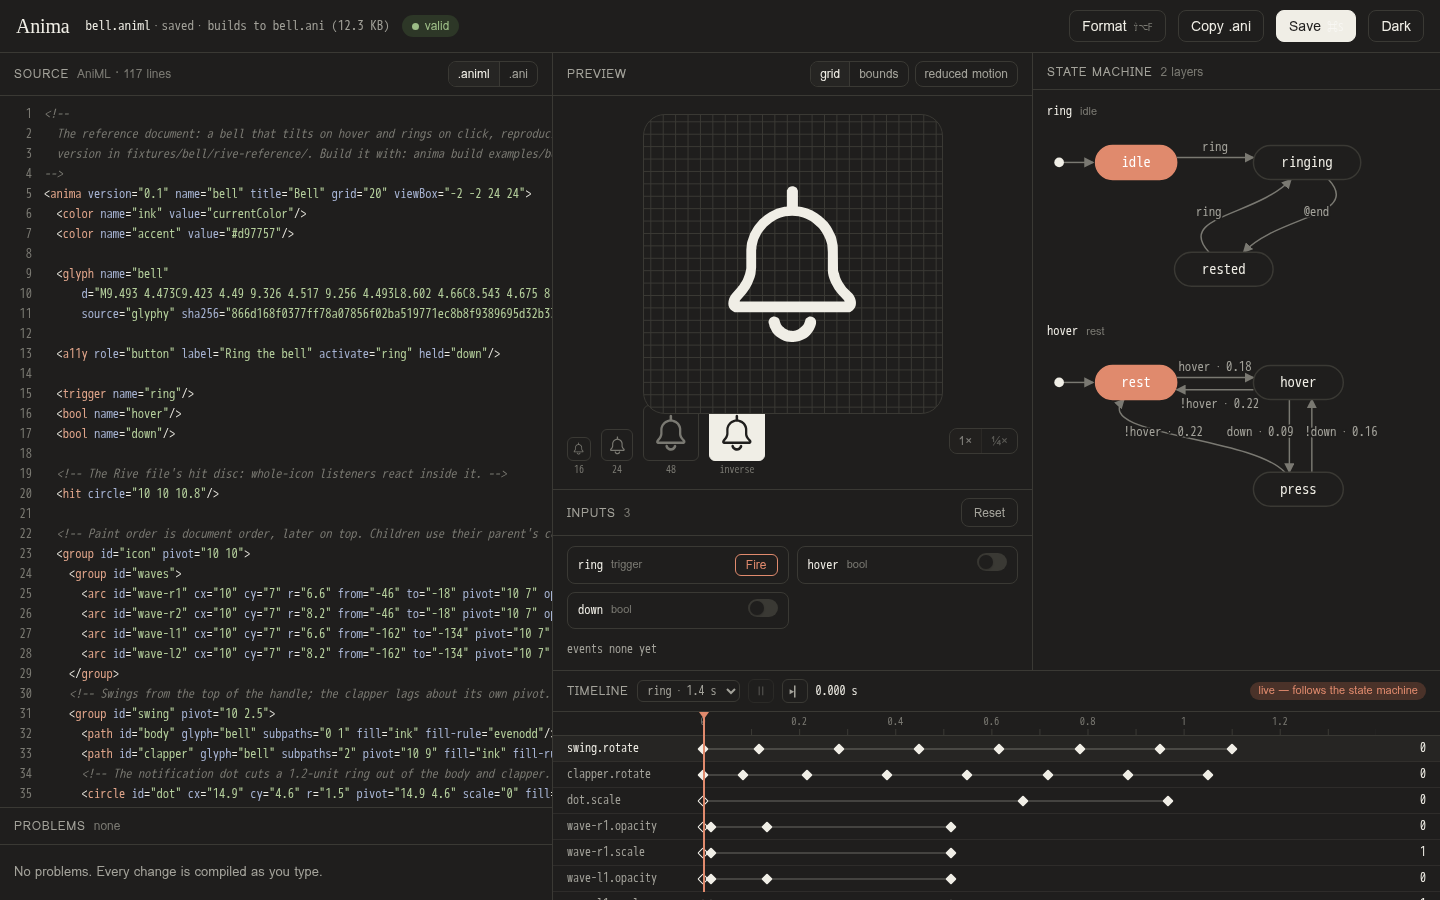
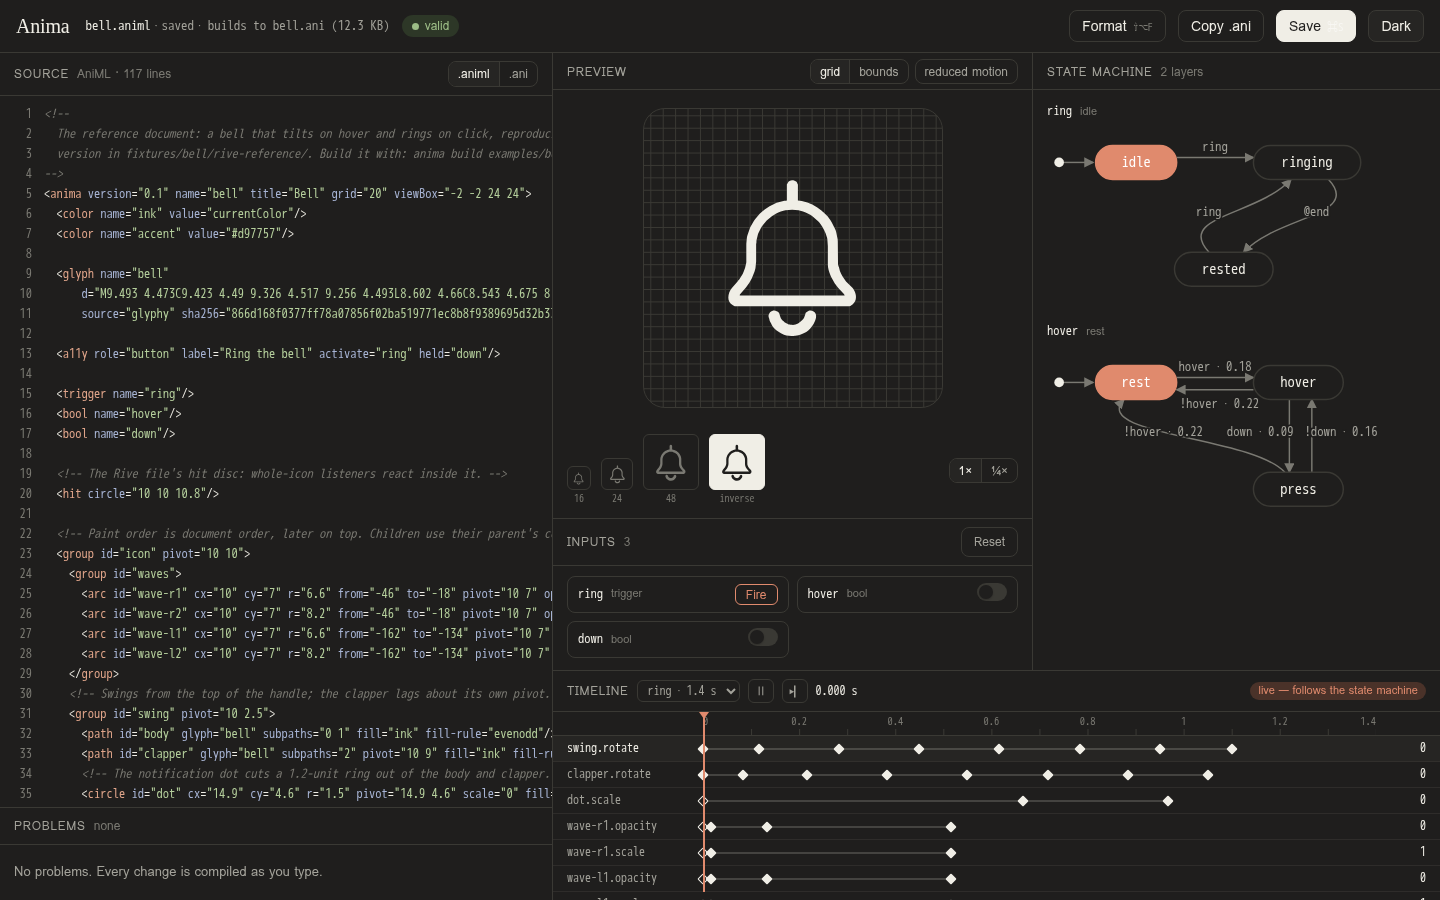
Playground: fit short windows (tile bounded by height, preview column scrolls), ruler edge labels, softer editor focus; mockup and handoff revised; fresh screenshots

diff --git a/packages/playground/src/style.css b/packages/playground/src/style.css
@@ -306,10 +306,11 @@ input {
 /* Stage */
 .stage-p {
   grid-area: stage;
+  /* Short windows scroll the column instead of letting the tile overlap the inputs. */
+  overflow-y: auto;
 }
 .stage {
-  flex: 1;
-  min-height: 0;
+  flex: none;
   display: grid;
   grid-template-rows: 1fr auto;
 }
@@ -317,11 +318,13 @@ input {
   display: grid;
   place-items: center;
   padding: 18px;
-  min-height: 260px;
+  min-height: 180px;
   position: relative;
 }
 .tile {
-  width: min(300px, 100%);
+  /* Bounded by the window height too, so the tile, sizes and the inputs header fit at 720 px. */
+  width: min(300px, 100%, calc(100vh - 560px));
+  min-width: 140px;
   aspect-ratio: 1;
   display: grid;
   place-items: center;
@@ -881,7 +884,8 @@ button:disabled {
   color: transparent;
 }
 #source:focus-visible {
-  outline-offset: -2px;
+  outline: 1px solid color-mix(in srgb, var(--accent) 55%, transparent);
+  outline-offset: -1px;
 }
 #source[readonly] {
   color: var(--ink);
@@ -1025,4 +1029,15 @@ button:disabled {
   clip-path: inset(50%);
   white-space: nowrap;
   border: 0;
+}
+
+/* Edge labels stay inside the ruler. */
+.ruler .ticks span:first-child {
+  transform: none;
+}
+.ruler .ticks span:last-child:not(:first-child) {
+  transform: translateX(-100%);
+}
+.btn[aria-pressed='true'] {
+  background: var(--panel);
 }

diff --git a/design/playground/mockup.html b/design/playground/mockup.html
@@ -338,22 +338,23 @@
       /* Stage */
       .stage-p {
         grid-area: stage;
+        overflow-y: auto;
       }
       .stage {
-        flex: 1;
-        min-height: 0;
+        flex: none;
         display: grid;
-        grid-template-rows: 1fr auto;
+        grid-template-rows: auto auto;
       }
       .tile-wrap {
         display: grid;
         place-items: center;
         padding: 18px;
-        min-height: 260px;
+        min-height: 180px;
         position: relative;
       }
       .tile {
-        width: min(300px, 100%);
+        width: min(300px, 100%, calc(100vh - 560px));
+        min-width: 140px;
         aspect-ratio: 1;
         display: grid;
         place-items: center;

diff --git a/packages/playground/src/app.ts b/packages/playground/src/app.ts
@@ -310,7 +310,8 @@ function buildTracks() {
   }
   const pct = (s: number) => (s / t.duration) * 100;
   const ticks = Array.from(
-    { length: Math.min(1000, Math.floor(t.duration / 0.1)) + 1 },
+    // The epsilon keeps 1.4 / 0.1 (13.999…) from dropping the last tick.
+    { length: Math.min(1000, Math.floor(t.duration / 0.1 + 1e-9)) + 1 },
     (_, i) => i * 0.1,
   );
   let html = `<div class="ruler"><div></div><div class="ticks" style="background-size:${10 / t.duration}% 6px">${ticks

diff --git a/design/playground/handoff.md b/design/playground/handoff.md
@@ -1,6 +1,6 @@
 # Playground handoff (P3)
 
-**Design artifact:** `design/playground/mockup.html` (sha256 `dbb8ebda5205…`, branch `p3-playground`).
+**Design artifact:** `design/playground/mockup.html` (sha256 `5cb260be05ea…`, branch `p3-playground`).
 Open it in a browser; the black "mock:" switch (bottom corner) shows the states: valid, errors,
 scrubbing, dark. The switch is mockup chrome, not part of the product.
 
@@ -81,6 +81,14 @@ playhead (→ model timelines + `inspect()`), the mock switch (remove).
   `packages/cli`, tests (unit + a Chromium/Firefox browser test). Must not change
   `packages/core` beyond reading, nor `packages/web/src` (request API additions instead).
 - Agent "host API": `packages/web/src/index.ts` and its tests, the web API doc.
+
+## Revisions after implementation
+
+- Short windows (found at 1280×720 on the real build; the mockup had the same flaw): the preview
+  tile is bounded by the window height too (`min(300px, 100%, 100vh − 560px)`, at least 140 px) and
+  the Preview column scrolls, so the tile never overlaps the inputs. Updated in both.
+- The timeline ruler keeps its first and last labels inside the lane; the editor's focus ring is a
+  1 px inset accent line instead of 2 px.
 
 ## Acceptance
 
